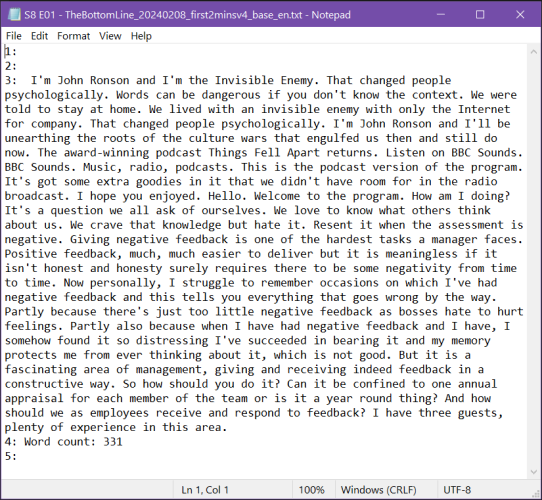
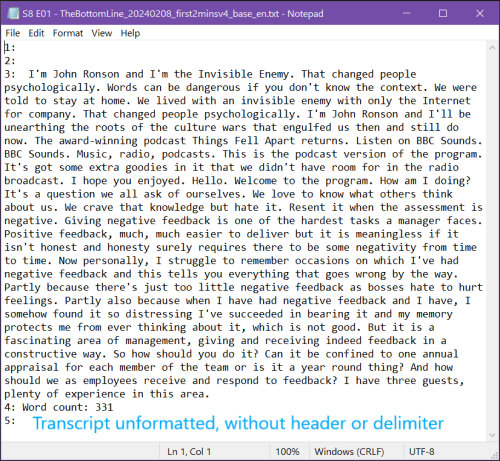
More tweaks to README.md wording, order, resized screenshots.

diff --git a/README.md b/README.md
@@ -1,10 +1,10 @@
 # whisper_wrapper
 ## Intro
-This program is a simple implementation of the wonderful [Whisper transcription model from OpenAI](https://github.com/openai/whisper), designed to automate the batch transcription of audio files and throwing in some extra formatting features along the way, before saving output as a .txt file. 
+This program is a simple implementation of the wonderful ✨[Whisper transcription model from OpenAI](https://github.com/openai/whisper), designed to automate the batch transcription of audio files whilst throwing in some extra formatting features along the way, before saving output as a .txt file. 
 
 The program is a 'wrapper' around the core Whisper transcription functionality. The code is extremely simple (novice coder) and should be easy for coders of all proficiencies to understand and modify. Simply set a few variables to customise how the finished transcript will be formatted, point the script at a directory containing your audio files, and off it goes. 🐱🏍
 
-![Here's a Sample Transcript](https://github.com/gorbash1370/whisper_wrapper/blob/main/misc/ss_trans_header_linenos_ann.png)
+[![Screenshot Sample Transcript annot](https://github.com/gorbash1370/whisper_wrapper/blob/main/misc/ss_trans_header_linenos_ann_small.png)](https://github.com/gorbash1370/whisper_wrapper/blob/main/misc/ss_trans_header_linenos_ann.png)
 
 My fellow AI/LLM geeks 🤓 will spot the purpose of the formatting features offered. The program:
 * adds in a header containing information about the file / content
@@ -15,39 +15,40 @@ My fellow AI/LLM geeks 🤓 will spot the purpose of the formatting features off
 Additionally:
 * It calculates the estimated processing time for each file and the batch as a whole, based upon `model_chosen`.
 * There's extensive logging capability (optional) and error handling.
-* I've supplied a script [`remove_line_nos.py`](https://github.com/gorbash1370/whisper_wrapper/blob/main/misc/remove_line_nos.py) to quickly remove line-numbers from the .txt file if desired. 
+* I've supplied a script [`remove_line_nos.py`](https://github.com/gorbash1370/whisper_wrapper/blob/main/misc/remove_line_nos.py) to quickly remove line-numbers from a batch of .txt files, if desired. 
 
-_This was a practice Python project created for my practical use, so much of it's functionality has been set to my taste. Therefore, please read the [Notes Usage](#notes-usage) section carefully for how to set it's parameters to match your workflow. I've built in as much variability as I had time to, before I had to escape from this particular The Code Cave_
+_This was a practice Python project created for my practical use, so much of its functionality has been set to my taste. Therefore, please read the [Notes Usage](#notes-usage) section carefully for how to set its parameters to match your workflow. I built in as much variability as time would allow, before I had to re-emerge from The Code Cave this project led me into._
 
 # Dependencies
 * See the [Setup section of OpenAI's whisper README](https://github.com/openai/whisper#setup) for the original model and it's dependencies. Mostly, it involves running `pip install -U openai-whisper`, but please do read their instructions.
-* As their guide describes, Whisper utilises the 'powerhouse' of [ffmpeg](https://ffmpeg.org/) so that needs to be installed.
-* There is no requirements.txt because the code only uses the libraries which are required/installed as part of the Whisper installation or are standard Python libraries.
-* If, like me, you're already on Python 3.12, you'll need to install Python 3.11 and then run  
-`/full/path/to/your/python3.11.exe -m venv /path/to/new/virtual/environment` to create your virtual environment.
+* As their guide describes, Whisper utilises the 'powerhouse' of [ffmpeg](https://ffmpeg.org/)❤ so that needs to be installed.
+* There is no requirements.txt because my code only uses the libraries which are required/installed as part of the Whisper installation or the standard Python libraries.
+
 
 # Program structure
-`user_variables.py` - user choices and parameters must be specified here  
-`utils_helper.py` - helper functions  
-`whisper_wrapper.py` - utility functions. Unwanted header fields can be manually commented out in the create_header() function (explained below).  
-`main.py` - executions the program
+[`user_variables.py`](https://github.com/gorbash1370/whisper_wrapper/blob/main/user_variables.py) - user choices and parameters must be specified here  
+[`utils_helper.py`](https://github.com/gorbash1370/whisper_wrapper/blob/main/utils_helper.py) - helper functions  
+[`whisper_wrapper.py`](https://github.com/gorbash1370/whisper_wrapper/blob/main/whisper_wrapper.py) - utility functions. Unwanted header fields can be manually commented out in the create_header() function (explained below).  
+[`main.py`](https://github.com/gorbash1370/whisper_wrapper/blob/main/main.py) - executions the program
 
 # Other files
-`README.md` - voila!  
-`LICENCE.md` - lgpl-3.0 licence  
+[`README.md`](https://github.com/gorbash1370/whisper_wrapper/blob/main/README.md) - voila!  
+[`LICENCE.md`](https://github.com/gorbash1370/whisper_wrapper/blob/main/LICENCE.md) - lgpl-3.0 licence  
 
-`issues.md` - casual project To Do list (see `misc/` folder)  
-`remove_line_nos.py` - script to remove line numbers from the transcript, if you want to keep the newlines but remove the line numbers (see `misc/` folder)  
+`issues.md` - casual project To Do list (in [`misc/`](https://github.com/gorbash1370/whisper_wrapper/tree/main/misc) folder)  
+[`remove_line_nos.py`](https://github.com/gorbash1370/whisper_wrapper/blob/main/misc/remove_line_nos.py) - script to remove line numbers from the transcript, if you want to keep the newlines but remove the line numbers (in [`misc/`](https://github.com/gorbash1370/whisper_wrapper/tree/main/misc) folder)  
 
 # Notes: Installation and Testing
-* At the time of writing (24 02), OpenAi's Whisper is compatible with Python versions 3.8-3.11
+* At the time of writing (24 02), OpenAi's Whisper is compatible with Python versions 3.8-3.11. 
+    * If, like me, you're already on Python 3.12, you'll need to install Python 3.11 and then run  
+`/full/path/to/your/python311.exe -m venv /path/to/new/virtual/environment` to create your virtual environment.
 * My code has only been tested on .mp3, .wav and .mp4 files so far.
-* My code was developed with Python 3.11.7 and on a Windows (10) machine. It should work on other OSs but I _have not tested this_.
+* My code was developed with Python 3.11.7 and on a Windows (10) machine. It should work on other OSs but _I have not tested this_.
 * I built the code as robustly as I could, but **I have not had chance to do extensive testing**. Please do let me know what errors you find and I'll do my best to fix them.
 
 
 # Start 
-* Install dependencies as mentioned above
+* Install [dependencies](#dependencies) as mentioned above
 * Read the [#Notes: Usage](#notes-usage) section carefully so you understand the program quirks
 * `user_variables.py` - complete all the variable values following the instructions in the comments
 * Comment out any unwanted header fields in `whisper_wrapper.py`, `create_header()` function
@@ -59,30 +60,28 @@ _This was a practice Python project created for my practical use, so much of it'
 ## Codesections Referenced:
   * `audio_file_info` and `audio_info_batch` are dictionaries in `user_variables.py`.
   * `header_parts` is a code section in `create_header()` function in `whisper_wrapper.py`
-
-## File processing order
-The program reads the names of all files in the `path_to_audio` directory which have an extension matching the `audio_format` variable (set in `user_variables.py`). The way/order in which Python adds the filenames to the resulting list could potentially vary between operating systems, and your File Explorer may be set to display files in a non-standard sort order. Therefore, the program is set to sort the extracted filenames in the `audio_filenames` list alphabetically. This is the order in which they will be transcribed.  
-
-If you want to change the transcription order of the files, you will need to rename them so that they appear alphabetically sorted in the order you want. This is only relevant if you are manually completing `audio_file_info` dictionaries in `user_variables.py` to populate individual transcript headers with unique values file by file. See [`.4`](#considerations-regarding-audio_file_info-dictionary-use) in #The Header section below.
-
+  * User choices / variables are all set in `user_variables.py`
 
 ## The Header
-The program inserts a header at the top of the transcript. The header and it's fields can be omitted or populated in the following ways:
-  1. Completely omit the header by commenting out all lines within `header_parts`.  [![Screenshot](https://github.com/gorbash1370/whisper_wrapper/blob/main/misc/ss_code_commented_out_header_thumb.png)](https://github.com/gorbash1370/whisper_wrapper/blob/main/misc/ss_code_commented_out_header.png)  
-  In this case, the only output will be the only the unformatted transcript with a wordcount.  
-  [![unformatted transcript](https://github.com/gorbash1370/whisper_wrapper/blob/main/misc/ss_trans_no_linenos_small.png)](https://github.com/gorbash1370/whisper_wrapper/blob/main/misc/ss_trans_no_header_annot.png) 
-  2. Omit some fields by commenting out the relevant lines in `header_parts`.
+The program inserts a header at the top of the transcript. The header and its fields can be omitted or populated in the following ways:
+  1. Completely omit the header by commenting out all lines within `header_parts`:  [![Screenshot No Header](https://github.com/gorbash1370/whisper_wrapper/blob/main/misc/ss_code_commented_out_header_thumb.png)](https://github.com/gorbash1370/whisper_wrapper/blob/main/misc/ss_code_commented_out_header.png)  
+  
+  In this case, the only output will be the only the unformatted transcript with a wordcount, like this:
+  [![Screenshot Unformatted Transcript](https://github.com/gorbash1370/whisper_wrapper/blob/main/misc/ss_trans_no_header_small.png)](https://github.com/gorbash1370/whisper_wrapper/blob/main/misc/ss_trans_no_header_annot.png) 
+  2. Omit _some_ fields by commenting out just the relevant lines in `header_parts`.
   3. To 'group-set' header fields which are the same for all the files (i.e. all the same Series or Hosted by the same person) complete the `audio_info_batch` dictionary.  
-  [![Screenshot](https://github.com/gorbash1370/whisper_wrapper/blob/main/misc/ss_code_audio_info_batch_dict_thumb.png)](https://github.com/gorbash1370/whisper_wrapper/blob/main/misc/ss_code_audio_info_batch_dict.png)  
+  [![Screenshot Batch Dictionaries](https://github.com/gorbash1370/whisper_wrapper/blob/main/misc/ss_code_audio_info_batch_dict_thumb.png)](https://github.com/gorbash1370/whisper_wrapper/blob/main/misc/ss_code_audio_info_batch_dict.png)  
   Values here will be inserted into the headers for _all_ the files processed. Combine with commenting out in `header_parts` any fields you don't want to appear. 
-  4. **Not recommended**: manually complete individual dictionaries within `audio_file_info` for unique file by file info. [![Screenshot](https://github.com/gorbash1370/whisper_wrapper/blob/main/misc/ss_code_audio_file_info_dict_thumb.png)](https://github.com/gorbash1370/whisper_wrapper/blob/main/misc/ss_code_audio_file_info_dict.png)
+  4. **Not recommended**: manually complete individual dictionaries within `audio_file_info` to set unique file-by-file info. [![Screenshot Individual Dictionaries](https://github.com/gorbash1370/whisper_wrapper/blob/main/misc/ss_code_audio_file_info_dict_thumb.png)](https://github.com/gorbash1370/whisper_wrapper/blob/main/misc/ss_code_audio_file_info_dict.png)
+
     
       #### Considerations regarding `audio_file_info` dictionary use: 
       * This method is laborious.
       * Ensure the number of dictionaries matches the number of files in the input directory, else the program will throw an error.
       * Start the `index` field from 1 for the first dictionary, 2 for the second, etc.
-      * Ensure the order of the dictionaries matches the order of the files in `audio_filenames` list, which is sorted alphabetically by their original filenames. The is the order Python will process the files in.
-      * Using this dictionary will require manually changing the code in `header_parts` in `create_header()` to point towards the `audio_file_info` dictionary instead of the `audio_info_batch` dictionary (latter used as default). The code to use to switch references is in the comments beside the dictionary entries in `audio_file_info`.
+      * Ensure the order of the dictionaries matches the order of the files in `audio_filenames` list, which is sorted alphabetically by their original filenames. This is the order in which Python will process the files.
+      * Using this dictionary will require manually changing the code in `header_parts` in `create_header()` to point towards the `audio_file_info` dictionary instead of the `audio_info_batch` dictionary (latter used as default). The code to substitute to switch references is in the comments beside the `audio_file_info` dictionary entries.
+      * I suppose you could paste the format of the `audio_file_info` dictionary into an LLM alongside natural language instructions for how to complete them; it might save time!
 
 ## Filenames & the Header
 * Filenames should contain title of the audio track at a minimum. This will auto-populate the `Title:` field in the header.
@@ -93,20 +92,31 @@ The program inserts a header at the top of the transcript. The header and it's f
     or `S6 E11 - Talking Health and Safety (with Mr Safety).mp3`  
 
     `S6` and `E11` will be extracted and inserted into `Series:` and `Episode:` respectively.
-    If the filename does not follow this format, the user can manually enter the series and episode information through `audio_file_info` dictionaries, set a default value in `extract_series_episode()` in `utils_helper.py` or set a consistent series number in the `audio_info_batch` dictionary.
-
-    If no Series or Episode number is detected, the program will insert "S0" and "E00" into the header. To turn this off, manually comment out these two lines in the `header_parts` section:  
-  `# f"Series#: {series} ",`  
-  `# f"Episode#: {episode} ",`
+    If the filename does not follow this format or if no Series or Episode number is detected, the user can:  
+    - allow the program to insert "S0" and "E00" into the header, which is the current default
+    - manually enter the series and episode information through `audio_file_info` dictionaries
+    - set a default value in `extract_series_episode()` in `utils_helper.py`
+    - set a consistent series number in the `audio_info_batch` dictionary
+    - or, you can of course also just comment out these two lines in the `header_parts` section to omit them completely (as with any other unwanted field):  
+    `# f"Series#: {series} ",`  
+    `# f"Episode#: {episode} ",`
 
 ## Line Numbers and Line Wrapping
-* Control variable: `word_interval` in `user_variables.py`
+* Control variable: `word_interval` in `user_variables.py`. `word_interval = 10` will insert a newline every 10 words.
 * Line wrapping and line numbers are implemented as a package: if the transcript is wrapped, line numbers will also be added into the transcript.  
 
     _This is valuable for AI processing (saving context, compute, enhancing quality control of AI responses and making AI output verification a million times more reliable). However, line numbers will be an annoyance if you are copying and pasting quotes from the transcript text (line numbers will be scattered throughout)._  
 
 * Line numbers can be easily omitted by setting `word_interval = 0`. Note: this will also prevent line-wrapping.
-* If you want line-wrapping at the word_interval, but want to remove the line numbers, use word_interval as usual. Then, run the `remove_line_nos.py` script in `/misc` on your transcripts (in bulk). This will remove all the prependeing `##: ` from all the transcipts but preserve the newline breaks.
+[![Screenshot Word Interval 0](https://github.com/gorbash1370/whisper_wrapper/blob/main/misc/ss_trans_no_linenos_annot_small.png)](https://github.com/gorbash1370/whisper_wrapper/blob/main/misc/ss_trans_no_linenos_annot.png)
+
+
+* If you want line-wrapping at the word_interval, but want to remove the line numbers, use `word_interval` as usual. Then, run the `remove_line_nos.py` script on your .txt transcripts (in bulk). This will remove all the prependeing `##: ` from all the transcipts but preserve the newline breaks.
+
+## File processing order
+The program reads the names of all files in the `path_to_audio` directory which have an extension matching the `audio_format`. The way/order in which Python adds the filenames to the resulting list could potentially vary between OSs, and your File Explorer may be set to display files in a non-standard sort order. Therefore, the program is set to sort the extracted filenames in the `audio_filenames` list alphabetically. This is the order in which they will sent to Whisper for transcription.  
+
+To change the transcription order of the files, you will need to rename them so that they appear alphabetically sorted in the order you want. _This is only relevant_ if you are manually completing `audio_file_info` dictionaries to populate individual transcript headers with unique values for each file. See [`.4`](#considerations-regarding-audio_file_info-dictionary-use) in #The Header section.
 
 ## Scope
 * Program only processes files of one type per pass, currently. So, if your input directory contains both .mp3 and .wav files, you will need to run the script twice (updating `audio_format` as necessary), once for each file type.
@@ -114,26 +124,26 @@ The program inserts a header at the top of the transcript. The header and it's f
 
 ## Output Customisation
 * `use_log_file` - use this variable to turn on/off the logging of the program's output to a file.
-* `path_to_logs` - specify the path where the log file should be saved.
+* `path_to_logs` - specify the path where the log file should be saved, if logging is enabled.
 * `path_to_output` - specify the path where the transcripts should be saved.
-* `move_processed` and `path_for_processed` - specify if / where you want the audio files to be moved to a different directory after processing.
+* `move_processed` and `path_for_processed` - specify if you want the audio files to be moved to a different directory after processing.
 * `model_options` - specify which OpenAI Whisper model you want to use for the transcription.
 * `delimiter` - customise the delimiter or omit by supplying an empty string `""`
-* `word interval` - customise the word interval for line wrapping and line numbers. See [#Line Numbers and Line Wrapping section](#line-numbers-and-line-wrapping) above.
+* `word interval` - customise the word interval for line wrapping and line numbers. Set to `0` to skip line-wrapping and line-numbers. See [#Line Numbers and Line Wrapping section](#line-numbers-and-line-wrapping) above.
 * `header_parts` in `create_header` - customise the header fields: see [#The Header section](#the-header) above.
 
+_Writing all the customisation steps out makes it sound like a lot, but it's actually very simple: once you have the parameters set up to your preferences it's set and forget. All you will need to change is the `audio_format` when you want to process a different file type._
 
 # gorbash1370 Disclaimer
 This is an amateur project built mainly for coding practice, therefore...
 * Commentary may appear excessive (learning 'notes')
 * Some code is expanded (rather than shortened & simplified) for learning clarity.
-* Please always inspect code before running. Use at your own risk!
-
+* I'm not a professional or trained Dev, so please always inspect code before running. Use at your own risk!
 
 # Improvements (Bigger Ones) on the To Do List
 - [ ] Accommodate processing of all audio files in the directory, rather than having to specify a single type/file extension.
-- [ ] Create an input 'terminal' prompt for the user to enter the program user choices. This would be a more user-friendly way to input the variable values.
-- [ ] Add a function which extracts a date from the filename (if present0 and inserts it into the header.
+- [ ] Create an input 'terminal program' for a more user-friendly way to enter set-up choices.
+- [ ] Add a function which extracts a date from the filename (if present) and inserts it into the header "date" field.
 - [ ] Create `test_whisper_transcribe.py` test file
 
 # Licences
@@ -142,6 +152,7 @@ This is an amateur project built mainly for coding practice, therefore...
 [ffmpeg Licence](https://www.ffmpeg.org/legal.html)  
 
 # If you enjoy this project...
+- If you find any bugs or errors, please do let me know.
 - Please consider sending me some project feedback or any suggestions for improvement!
 - [BuyMeACawfee](https://www.buymeacoffee.com/gorbash1370)
 
